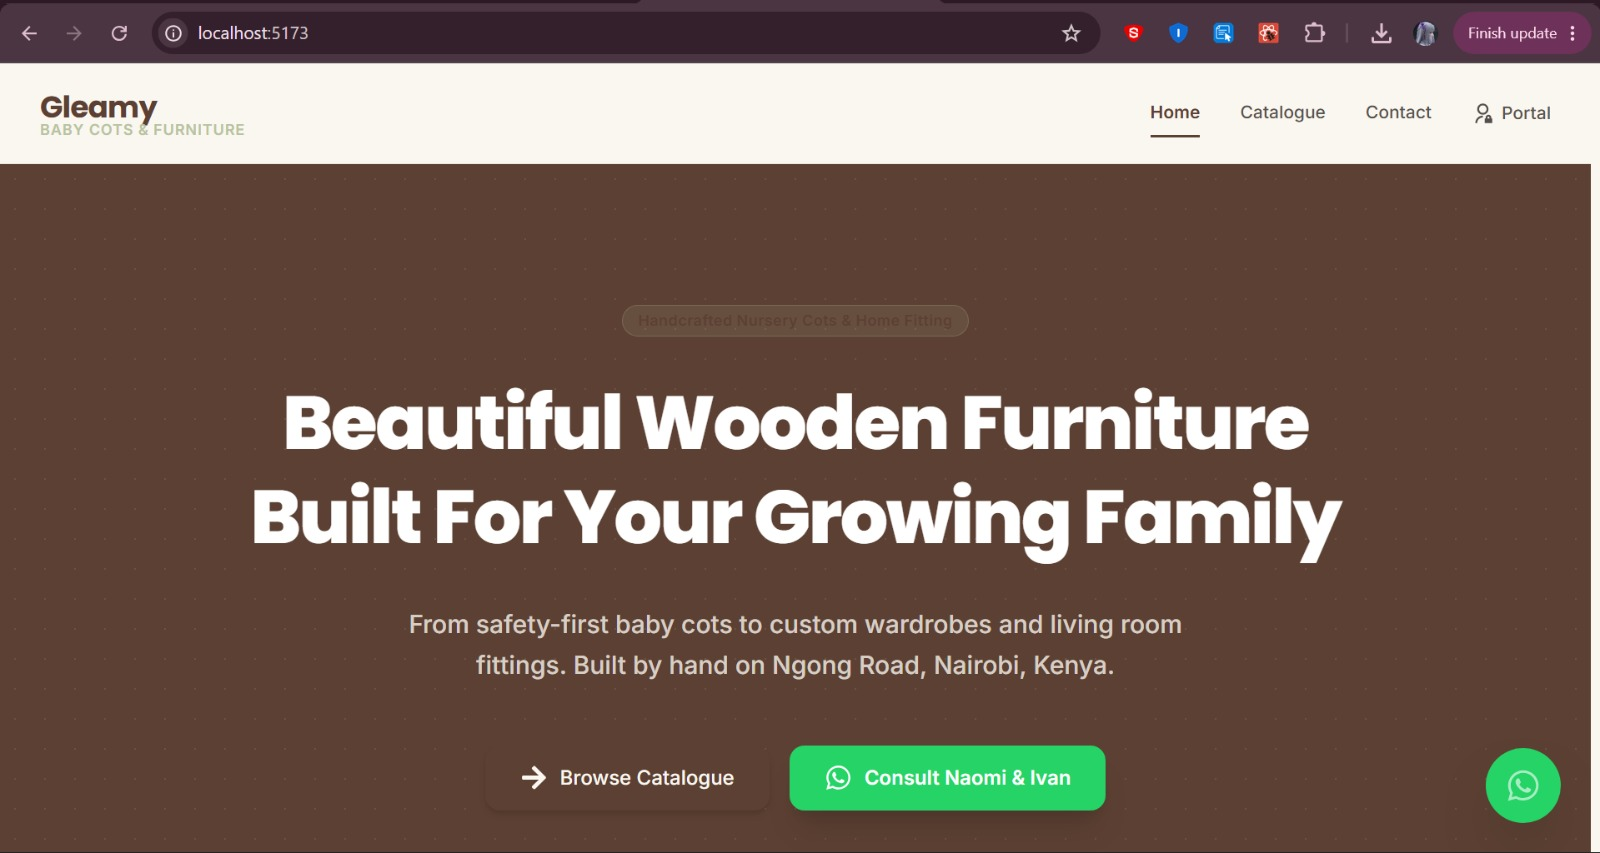
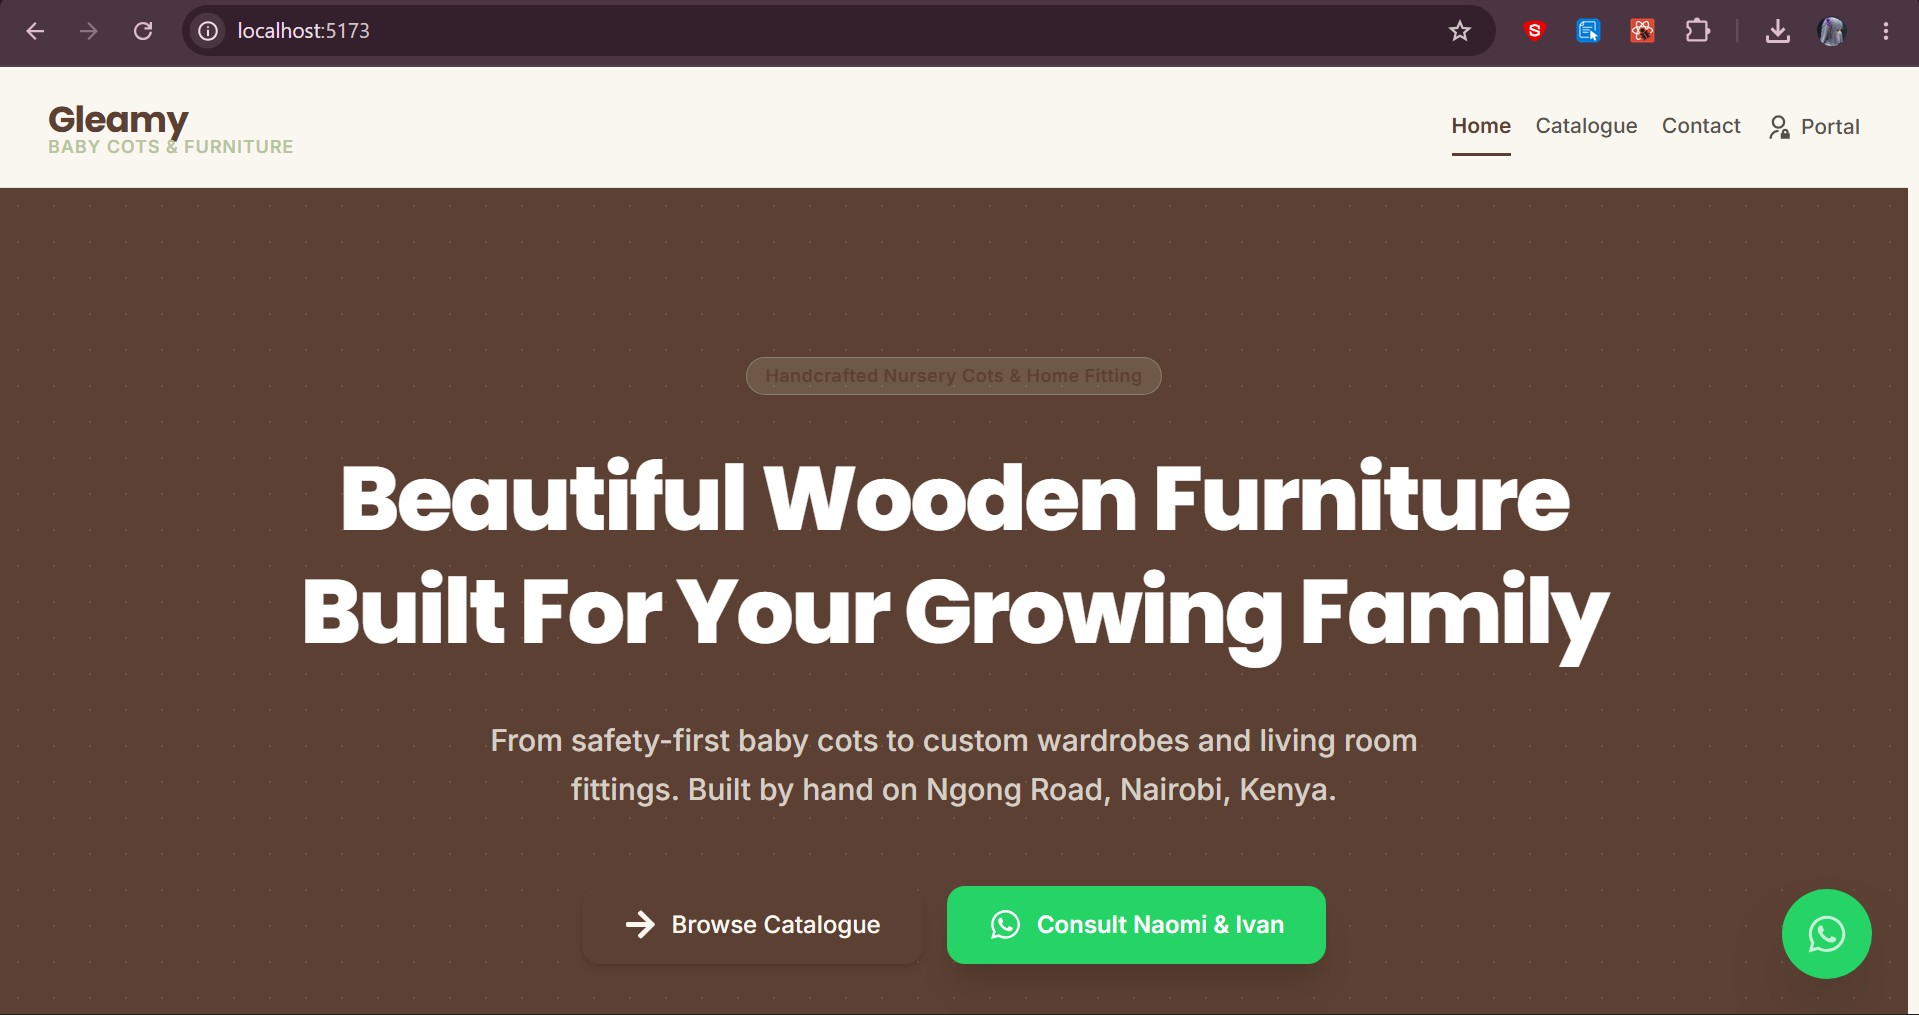
Updated screenshots and readme

diff --git a/README.md b/README.md
@@ -43,7 +43,7 @@ Gleamy Baby Cots & Furniture is a Nairobi-based furniture manufacturer specializ
 
 It ships with two experiences in one codebase:
 
-- **A public storefront** for browsing, searching, and inquiring about products
+- **A public storefront** for browsing, searching, and inquiring about products — with a lightweight lead-capture step that tells the business where its customers are coming from
 - **A protected admin dashboard** for managing inventory, orders, and sales performance
 
 ---
@@ -58,7 +58,7 @@ It ships with two experiences in one codebase:
 </td>
 <td width="50%">
 <img src="./screenshots/03-featured-products.jpg" width="100%" alt="Featured products" /><br/>
-<sub><b>Featured products</b> — live stock badges and one-tap WhatsApp inquiry</sub>
+<sub><b>Featured products</b> — real product photography, live stock badges, one-tap WhatsApp inquiry</sub>
 </td>
 </tr>
 <tr>
@@ -67,24 +67,31 @@ It ships with two experiences in one codebase:
 <sub><b>Full catalogue</b> — search, category, availability, and sort filters</sub>
 </td>
 <td width="50%">
-<img src="./screenshots/05-contact-inquiry.jpg" width="100%" alt="Contact and inquiry form" /><br/>
-<sub><b>Inquiry form</b> — routes straight into a WhatsApp conversation</sub>
+<img src="./screenshots/05-lead-capture.jpg" width="100%" alt="Lead capture step" /><br/>
+<sub><b>Lead capture</b> — a quick name, phone, and referral-source step before every WhatsApp handoff</sub>
 </td>
 </tr>
 <tr>
 <td width="50%">
-<img src="./screenshots/06-login.jpg" width="100%" alt="Admin login" /><br/>
-<sub><b>Admin authentication</b> — JWT-protected portal access</sub>
+<img src="./screenshots/06-contact-inquiry.jpg" width="100%" alt="Contact and inquiry form" /><br/>
+<sub><b>Inquiry form</b> — routes straight into a WhatsApp conversation</sub>
 </td>
 <td width="50%">
-<img src="./screenshots/07-admin-dashboard.jpg" width="100%" alt="Admin dashboard" /><br/>
-<sub><b>Admin dashboard</b> — revenue, sales volume, and inquiries at a glance</sub>
+<img src="./screenshots/07-login.jpg" width="100%" alt="Admin login" /><br/>
+<sub><b>Admin authentication</b> — JWT-protected portal access</sub>
 </td>
 </tr>
 </table>
 
 <div align="center">
-<img src="./screenshots/08-admin-products.jpg" width="850" alt="Product management" /><br/>
+<img src="./screenshots/08-admin-dashboard.jpg" width="850" alt="Admin dashboard" /><br/>
+<sub><b>Admin dashboard</b> — revenue, sales volume, inventory, and lead source analytics at a glance</sub>
+</div>
+
+<br/>
+
+<div align="center">
+<img src="./screenshots/09-admin-products.jpg" width="850" alt="Product management" /><br/>
 <sub><b>Product management</b> — live stock, pricing, and category control</sub>
 </div>
 
@@ -96,13 +103,19 @@ It ships with two experiences in one codebase:
 - Browse and search the full product catalogue
 - Filter by category and availability
 - View detailed product pages with responsive image galleries
+- A lightweight lead-capture step (name, phone, referral source) before every WhatsApp handoff
 - Contact the business directly via WhatsApp deep links
 - Explore featured and in-stock products on the homepage
 
 ### 📦 Product Catalogue
 - Dynamic, real-time product listing sourced from the backend API
+- Real product photography with graceful fallbacks when an image is missing
 - Category filtering and keyword search
-- Responsive image galleries with graceful fallbacks
+
+### 📥 Lead Capture
+- Short, frictionless form shown before a customer is routed to WhatsApp
+- Captures how each customer found the business (Instagram, Facebook, Google Search, etc.)
+- Feeds directly into the admin dashboard's Lead Analytics widget
 
 ### 🔐 Authentication
 - User registration and secure login
@@ -111,6 +124,7 @@ It ships with two experiences in one codebase:
 
 ### 📊 Admin Dashboard
 - Business metrics: revenue, sales volume, and inventory at a glance
+- Lead analytics — total leads and top referral sources
 - Full product management — create, edit, archive, and restore
 - Inventory monitoring with live stock adjustments
 - Sales analytics with top-selling product rankings
